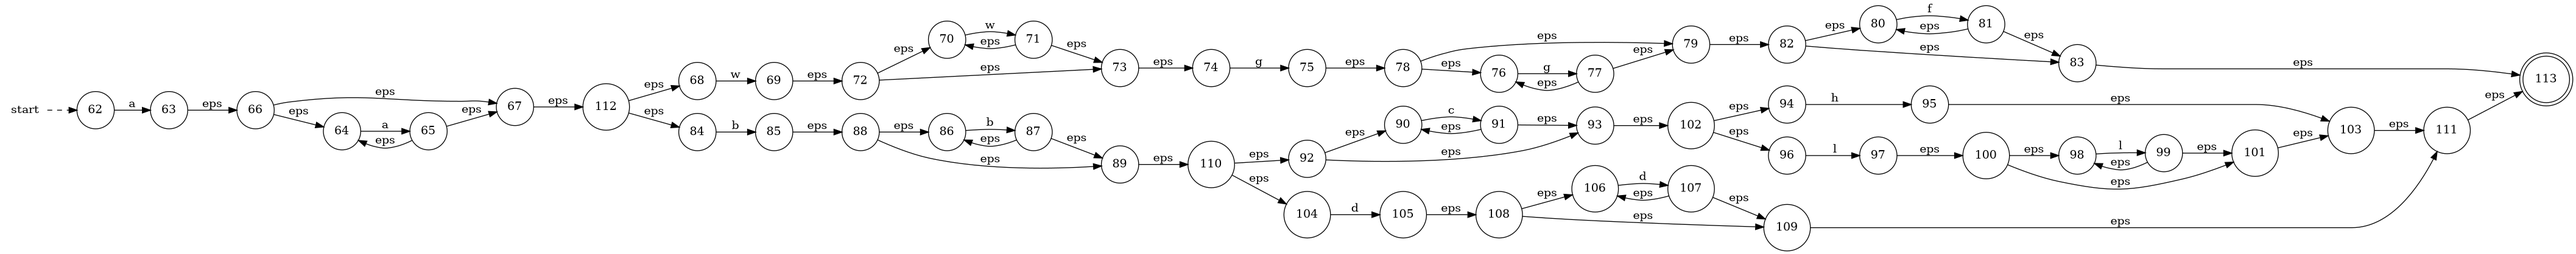
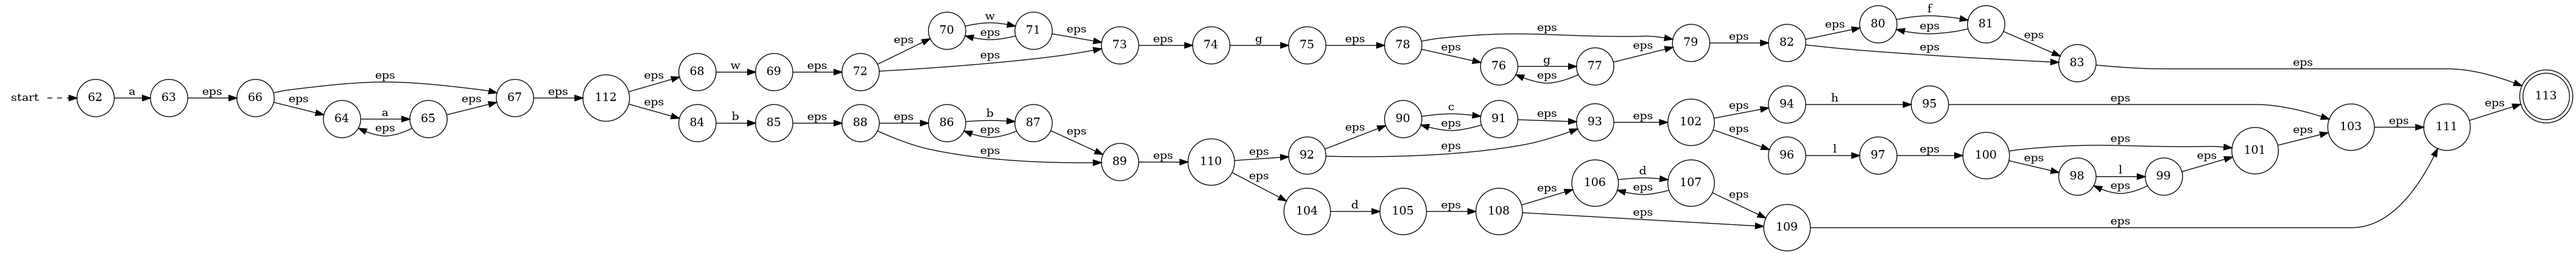
add: tests for DFA; fixed: acceptStringForDFA

diff --git a/src/tests/NFA_tests.cpp b/src/tests/NFA_tests.cpp
@@ -19,12 +19,12 @@ TEST(NFABuildTest, BuildPlusRegex) {
     EXPECT_FALSE(graph.acceptString(nfa, "b"));
     EXPECT_FALSE(graph.acceptString(nfa, "ba"));
 
-    //EXPECT_FALSE(automat::algForAuto::acceptStringForDFA(dfa.start, ""));
-    //EXPECT_TRUE(automat::algForAuto::acceptStringForDFA(dfa.start, "a"));
-    //EXPECT_TRUE(automat::algForAuto::acceptStringForDFA(dfa.start, "aa"));
-    //EXPECT_TRUE(automat::algForAuto::acceptStringForDFA(dfa.start, "aaa"));
-    //EXPECT_FALSE(automat::algForAuto::acceptStringForDFA(dfa.start, "b"));
-    //EXPECT_FALSE(automat::algForAuto::acceptStringForDFA(dfa.start, "ba"));
+    EXPECT_FALSE(automat::algForAuto::acceptStringForDFA(dfa.start, ""));
+    EXPECT_TRUE(automat::algForAuto::acceptStringForDFA(dfa.start, "a"));
+    EXPECT_TRUE(automat::algForAuto::acceptStringForDFA(dfa.start, "aa"));
+    EXPECT_TRUE(automat::algForAuto::acceptStringForDFA(dfa.start, "aaa"));
+    EXPECT_FALSE(automat::algForAuto::acceptStringForDFA(dfa.start, "b"));
+    EXPECT_FALSE(automat::algForAuto::acceptStringForDFA(dfa.start, "ba"));
     nfa.clearAuto();
 }
 
@@ -46,13 +46,13 @@ TEST(NFABuildTest, BuildKleeneRegex)
     EXPECT_FALSE(graph.acceptString(nfa, "cc"));
 
     automat::DFA dfa = automat::algForAuto::buildDFAfromNFA(nfa);
-    //EXPECT_TRUE(automat::algForAuto::acceptStringForDFA(dfa.start, "a"));
-    //EXPECT_TRUE(automat::algForAuto::acceptStringForDFA(dfa.start, "aa"));
-    //EXPECT_TRUE(automat::algForAuto::acceptStringForDFA(dfa.start, "aaa"));
-    //EXPECT_TRUE(automat::algForAuto::acceptStringForDFA(dfa.start, ""));
-    //EXPECT_FALSE(automat::algForAuto::acceptStringForDFA(dfa.start, "b"));
-    //EXPECT_FALSE(automat::algForAuto::acceptStringForDFA(dfa.start, "ba"));
-    //EXPECT_FALSE(automat::algForAuto::acceptStringForDFA(dfa.start, "cc"));
+    EXPECT_TRUE(automat::algForAuto::acceptStringForDFA(dfa.start, "a"));
+    EXPECT_TRUE(automat::algForAuto::acceptStringForDFA(dfa.start, "aa"));
+    EXPECT_TRUE(automat::algForAuto::acceptStringForDFA(dfa.start, "aaa"));
+    EXPECT_TRUE(automat::algForAuto::acceptStringForDFA(dfa.start, ""));
+    EXPECT_FALSE(automat::algForAuto::acceptStringForDFA(dfa.start, "b"));
+    EXPECT_FALSE(automat::algForAuto::acceptStringForDFA(dfa.start, "ba"));
+    EXPECT_FALSE(automat::algForAuto::acceptStringForDFA(dfa.start, "cc"));
     nfa.clearAuto();
 }
 
@@ -71,10 +71,10 @@ TEST(NFABuildTest, BuildConcatRegex)
     EXPECT_FALSE(graph.acceptString(nfa, "a"));
 
     automat::DFA dfa = automat::algForAuto::buildDFAfromNFA(nfa);
-    //EXPECT_TRUE(automat::algForAuto::acceptStringForDFA(dfa.start, "ab"));
-    //EXPECT_FALSE(automat::algForAuto::acceptStringForDFA(dfa.start, "b"));
-    //EXPECT_FALSE(automat::algForAuto::acceptStringForDFA(dfa.start, "ba"));
-    //EXPECT_FALSE(automat::algForAuto::acceptStringForDFA(dfa.start, "cc"));
+    EXPECT_TRUE(automat::algForAuto::acceptStringForDFA(dfa.start, "ab"));
+    EXPECT_FALSE(automat::algForAuto::acceptStringForDFA(dfa.start, "b"));
+    EXPECT_FALSE(automat::algForAuto::acceptStringForDFA(dfa.start, "ba"));
+    EXPECT_FALSE(automat::algForAuto::acceptStringForDFA(dfa.start, "cc"));
 
     nfa.clearAuto();
 }
@@ -93,11 +93,11 @@ TEST(NFABuildTest, BuildAlternateRegex) {
     EXPECT_FALSE(graph.acceptString(nfa, ""));
 
     automat::DFA dfa = automat::algForAuto::buildDFAfromNFA(nfa);
-    //EXPECT_TRUE(automat::algForAuto::acceptStringForDFA(dfa.start, "a"));
-    //EXPECT_TRUE(automat::algForAuto::acceptStringForDFA(dfa.start, "b"));
-    //EXPECT_FALSE(automat::algForAuto::acceptStringForDFA(dfa.start, "ab"));
-    //EXPECT_FALSE(automat::algForAuto::acceptStringForDFA(dfa.start, "ba"));
-    //EXPECT_FALSE(automat::algForAuto::acceptStringForDFA(dfa.start, "cc"));
+    EXPECT_TRUE(automat::algForAuto::acceptStringForDFA(dfa.start, "a"));
+    EXPECT_TRUE(automat::algForAuto::acceptStringForDFA(dfa.start, "b"));
+    EXPECT_FALSE(automat::algForAuto::acceptStringForDFA(dfa.start, "ab"));
+    EXPECT_FALSE(automat::algForAuto::acceptStringForDFA(dfa.start, "ba"));
+    EXPECT_FALSE(automat::algForAuto::acceptStringForDFA(dfa.start, "cc"));
 
     nfa.clearAuto();
 }
@@ -131,13 +131,13 @@ TEST(NFABuildTest, BuildComplexKleeneRegex) {
     EXPECT_FALSE(graph.acceptString(nfa, "dd"));
 
     automat::DFA dfa = automat::algForAuto::buildDFAfromNFA(nfa);
-    //EXPECT_TRUE(automat::algForAuto::acceptStringForDFA(dfa.start, "ad"));
-    //EXPECT_TRUE(automat::algForAuto::acceptStringForDFA(dfa.start, "bf"));
-    //EXPECT_TRUE(automat::algForAuto::acceptStringForDFA(dfa.start, "cd"));
-    //EXPECT_TRUE(automat::algForAuto::acceptStringForDFA(dfa.start, "af"));
-    //EXPECT_TRUE(automat::algForAuto::acceptStringForDFA(dfa.start, "advvvv"));
-    //EXPECT_FALSE(automat::algForAuto::acceptStringForDFA(dfa.start, "a"));
-    //EXPECT_FALSE(automat::algForAuto::acceptStringForDFA(dfa.start, "b"));
+    EXPECT_TRUE(automat::algForAuto::acceptStringForDFA(dfa.start, "ad"));
+    EXPECT_TRUE(automat::algForAuto::acceptStringForDFA(dfa.start, "bf"));
+    EXPECT_TRUE(automat::algForAuto::acceptStringForDFA(dfa.start, "cd"));
+    EXPECT_TRUE(automat::algForAuto::acceptStringForDFA(dfa.start, "af"));
+    EXPECT_TRUE(automat::algForAuto::acceptStringForDFA(dfa.start, "advvvv"));
+    EXPECT_FALSE(automat::algForAuto::acceptStringForDFA(dfa.start, "a"));
+    EXPECT_FALSE(automat::algForAuto::acceptStringForDFA(dfa.start, "b"));
 
     nfa.clearAuto();
 }
@@ -167,13 +167,13 @@ TEST(NFABuildTest, ComplexNFA_3)
     EXPECT_TRUE(graph.acceptString(nfa, "abbddd"));
 
     automat::DFA dfa = automat::algForAuto::buildDFAfromNFA(nfa);
-   //EXPECT_TRUE(automat::algForAuto::acceptStringForDFA(dfa.start, "awg"));
-   //EXPECT_TRUE(automat::algForAuto::acceptStringForDFA(dfa.start, "aawwgg"));
-   //EXPECT_TRUE(automat::algForAuto::acceptStringForDFA(dfa.start, "awggf"));
-   //EXPECT_TRUE(automat::algForAuto::acceptStringForDFA(dfa.start, "abbbh"));
-   //EXPECT_TRUE(automat::algForAuto::acceptStringForDFA(dfa.start, "abbccl"));
-   //EXPECT_TRUE(automat::algForAuto::acceptStringForDFA(dfa.start, "abbddd"));
-   //EXPECT_FALSE(automat::algForAuto::acceptStringForDFA(dfa.start, "cc"));
+   EXPECT_TRUE(automat::algForAuto::acceptStringForDFA(dfa.start, "awg"));
+   EXPECT_TRUE(automat::algForAuto::acceptStringForDFA(dfa.start, "aawwgg"));
+   EXPECT_TRUE(automat::algForAuto::acceptStringForDFA(dfa.start, "awggf"));
+   EXPECT_TRUE(automat::algForAuto::acceptStringForDFA(dfa.start, "abbbh"));
+   EXPECT_TRUE(automat::algForAuto::acceptStringForDFA(dfa.start, "abbccl"));
+   EXPECT_TRUE(automat::algForAuto::acceptStringForDFA(dfa.start, "abbddd"));
+   EXPECT_FALSE(automat::algForAuto::acceptStringForDFA(dfa.start, "cc"));
 
     nfa.clearAuto();
 }
@@ -232,13 +232,13 @@ TEST(NFABuildTest, BuildComplexRegex_1) {
     EXPECT_FALSE(graph.acceptString(nfa, ""));
 
     automat::DFA dfa = automat::algForAuto::buildDFAfromNFA(nfa);
-   //EXPECT_TRUE(automat::algForAuto::acceptStringForDFA(dfa.start, "abb"));
-   //EXPECT_TRUE(automat::algForAuto::acceptStringForDFA(dfa.start, "aabb"));
-   //EXPECT_TRUE(automat::algForAuto::acceptStringForDFA(dfa.start, "babb"));
-   //EXPECT_TRUE(automat::algForAuto::acceptStringForDFA(dfa.start, "bbbabb"));
-   //EXPECT_FALSE(automat::algForAuto::acceptStringForDFA(dfa.start, "a"));
-   //EXPECT_FALSE(automat::algForAuto::acceptStringForDFA(dfa.start, "b"));
-   //EXPECT_FALSE(automat::algForAuto::acceptStringForDFA(dfa.start, "ba"));
+   EXPECT_TRUE(automat::algForAuto::acceptStringForDFA(dfa.start, "abb"));
+   EXPECT_TRUE(automat::algForAuto::acceptStringForDFA(dfa.start, "aabb"));
+   EXPECT_TRUE(automat::algForAuto::acceptStringForDFA(dfa.start, "babb"));
+   EXPECT_TRUE(automat::algForAuto::acceptStringForDFA(dfa.start, "bbbabb"));
+   EXPECT_FALSE(automat::algForAuto::acceptStringForDFA(dfa.start, "a"));
+   EXPECT_FALSE(automat::algForAuto::acceptStringForDFA(dfa.start, "b"));
+   EXPECT_FALSE(automat::algForAuto::acceptStringForDFA(dfa.start, "ba"));
 
     nfa.clearAuto();
 }
@@ -261,13 +261,13 @@ TEST(NFABuildTest, BuildComplexRegex_2) {
     EXPECT_FALSE(graph.acceptString(nfa, "vb"));
 
     automat::DFA dfa = automat::algForAuto::buildDFAfromNFA(nfa);
-    //EXPECT_TRUE(automat::algForAuto::acceptStringForDFA(dfa.start, "vv"));
-    //EXPECT_TRUE(automat::algForAuto::acceptStringForDFA(dfa.start, "vvvv"));
-    //EXPECT_TRUE(automat::algForAuto::acceptStringForDFA(dfa.start, "aavv"));
-    //EXPECT_TRUE(automat::algForAuto::acceptStringForDFA(dfa.start, "bbbbvv"));
-    //EXPECT_TRUE(automat::algForAuto::acceptStringForDFA(dfa.start, "vvv"));
-    //EXPECT_FALSE(automat::algForAuto::acceptStringForDFA(dfa.start, "ba"));
-    //EXPECT_FALSE(automat::algForAuto::acceptStringForDFA(dfa.start, ""));
+    EXPECT_TRUE(automat::algForAuto::acceptStringForDFA(dfa.start, "vv"));
+    EXPECT_TRUE(automat::algForAuto::acceptStringForDFA(dfa.start, "vvvv"));
+    EXPECT_TRUE(automat::algForAuto::acceptStringForDFA(dfa.start, "aavv"));
+    EXPECT_TRUE(automat::algForAuto::acceptStringForDFA(dfa.start, "bbbbvv"));
+    EXPECT_TRUE(automat::algForAuto::acceptStringForDFA(dfa.start, "vvv"));
+    EXPECT_FALSE(automat::algForAuto::acceptStringForDFA(dfa.start, "ba"));
+    EXPECT_FALSE(automat::algForAuto::acceptStringForDFA(dfa.start, ""));
 
     nfa.clearAuto();
 }

diff --git a/src/algorithms/algorithm.cpp b/src/algorithms/algorithm.cpp
@@ -79,7 +79,7 @@ namespace automat
             dfaQueue.pop();
             State* dfaState = dfaStates[currentClosure];
 
-            for (const auto& state : currentClosure)
+            for (const auto state : currentClosure)
             {
                 if (state == NFA.accept)
                 {
@@ -89,7 +89,7 @@ namespace automat
             }
 
             std::map<char, std::set<State*>> moveTable;
-            for (const auto& state : currentClosure)
+            for (const auto state : currentClosure)
             {
                 for (const auto& [symbol, nextState] : state->transitions)
                 {
@@ -147,20 +147,20 @@ namespace automat
 
     bool algForAuto::acceptStringForDFA(State* state, const std::string& baseString)
     {
-        std::set<State*> visited;
         State* currentState = state;
         for (const auto& c : baseString)
         {
+            std::map<char, State*> moveTable;
             for (const auto& [symbol, nextState] : currentState->transitions)
             {
-                if (c == symbol)
-                {
-                    currentState = nextState;
-                    break;
-                } else
-                {
-                    return false;
-                }
+                moveTable[symbol] = nextState;
+            }
+            if (moveTable.contains(c))
+            {
+                currentState = moveTable[c];
+            } else
+            {
+                return false;
             }
         }
 

diff --git a/src/automat/NFA/NFA.cpp b/src/automat/NFA/NFA.cpp
@@ -24,10 +24,13 @@ namespace automat
     {
         start = createState();
         accept = createState();
+        accept->isAccept = true;
         start->transitions.insert({'\0', firsAutomat.start});
         start->transitions.insert({'\0', secondAutomat.start});
         firsAutomat.accept->transitions.insert({'\0', accept});
         secondAutomat.accept->transitions.insert({'\0', accept});
+        firsAutomat.accept->isAccept = false;
+        secondAutomat.accept->isAccept = false;
         return {start, accept};
 
     }
@@ -35,6 +38,8 @@ namespace automat
     automat NFA::baseConcat(const automat& firsAutomat, const automat& secondAutomat)
     {
         firsAutomat.accept->transitions.insert({'\0', secondAutomat.start});
+        firsAutomat.accept->isAccept = false;
+        secondAutomat.accept->isAccept = true;
         return {firsAutomat.start, secondAutomat.accept};
     }
 
@@ -42,10 +47,12 @@ namespace automat
     {
         start = createState();
         accept = createState();
+        accept->isAccept = true;
         start->transitions.insert({'\0', firsAutomat.start});
         start->transitions.insert({'\0', accept});
         firsAutomat.accept->transitions.insert({'\0', accept});
         firsAutomat.accept->transitions.insert({'\0', firsAutomat.start});
+        firsAutomat.accept->isAccept = false;
         return {start, accept};
     }
 

diff --git a/src/visualization/visualizer.cpp b/src/visualization/visualizer.cpp
@@ -59,14 +59,15 @@ namespace automat
             if (visited.contains(state)) { return; }
             visited.insert(state);
 
+            if (filename == "DFA" && state->isAccept)
+            {
+                file << "    " << state->id << " [shape=doublecircle];\n";
+            }
+
             for (const auto& [symbol, nextState] : state->transitions)
             {
                 file << "    " << state->id << " -> " << nextState->id
                 << " [label=\"" << (symbol == '\0' ? "eps" : std::string(1, symbol)) << "\"];\n";
-                if (filename == "DFA" && state->isAccept)
-                {
-                    file << "    " << state->id << " [shape=doublecircle];\n";
-                }
                 graph(nextState);
             }
         };

diff --git a/src/automat/base_automat/automat.cpp b/src/automat/base_automat/automat.cpp
@@ -23,6 +23,7 @@ namespace automat {
 		}
 		start = createState();
 		accept = createState();
+		accept->isAccept = true;
 
 		start->transitions.insert({symbol, accept});
 		return {start, accept};
